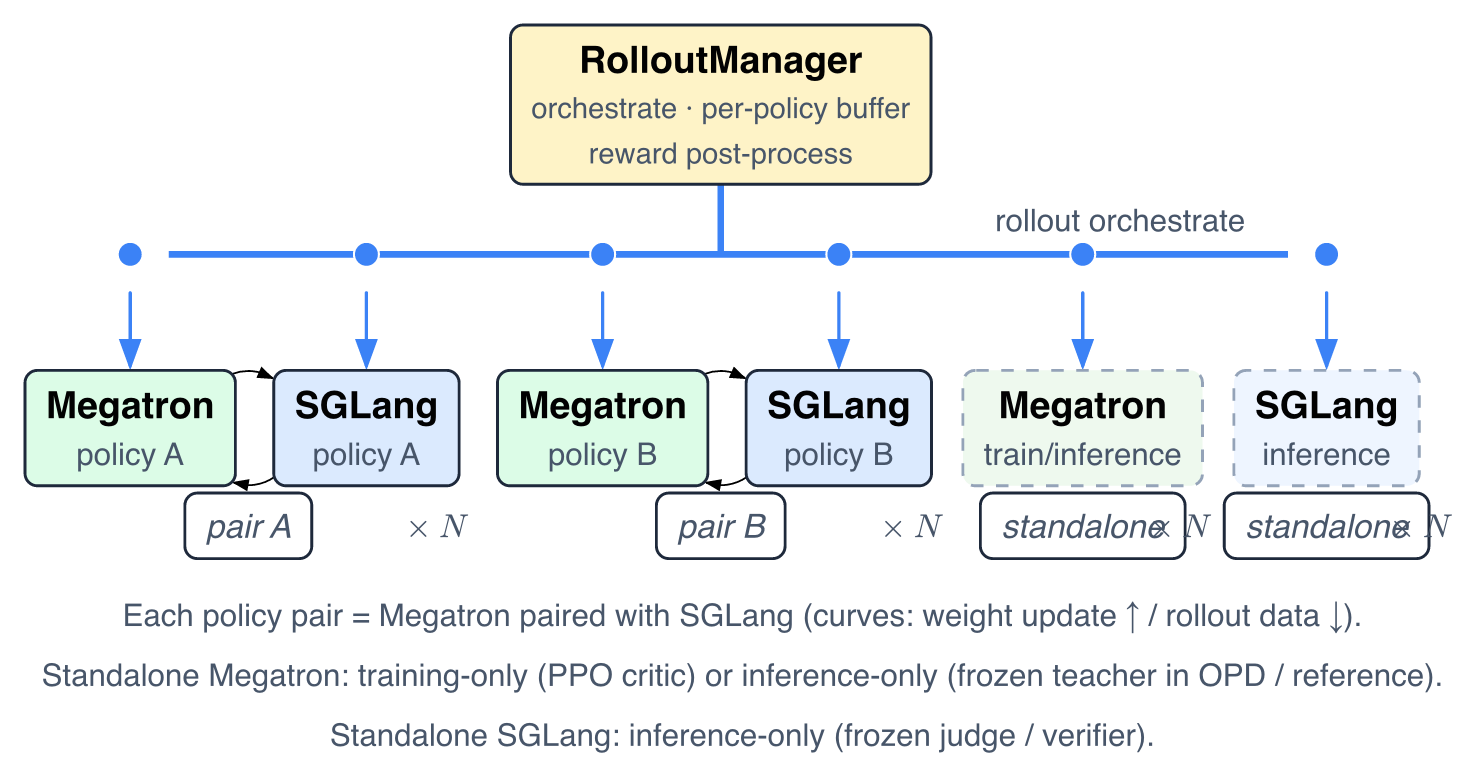
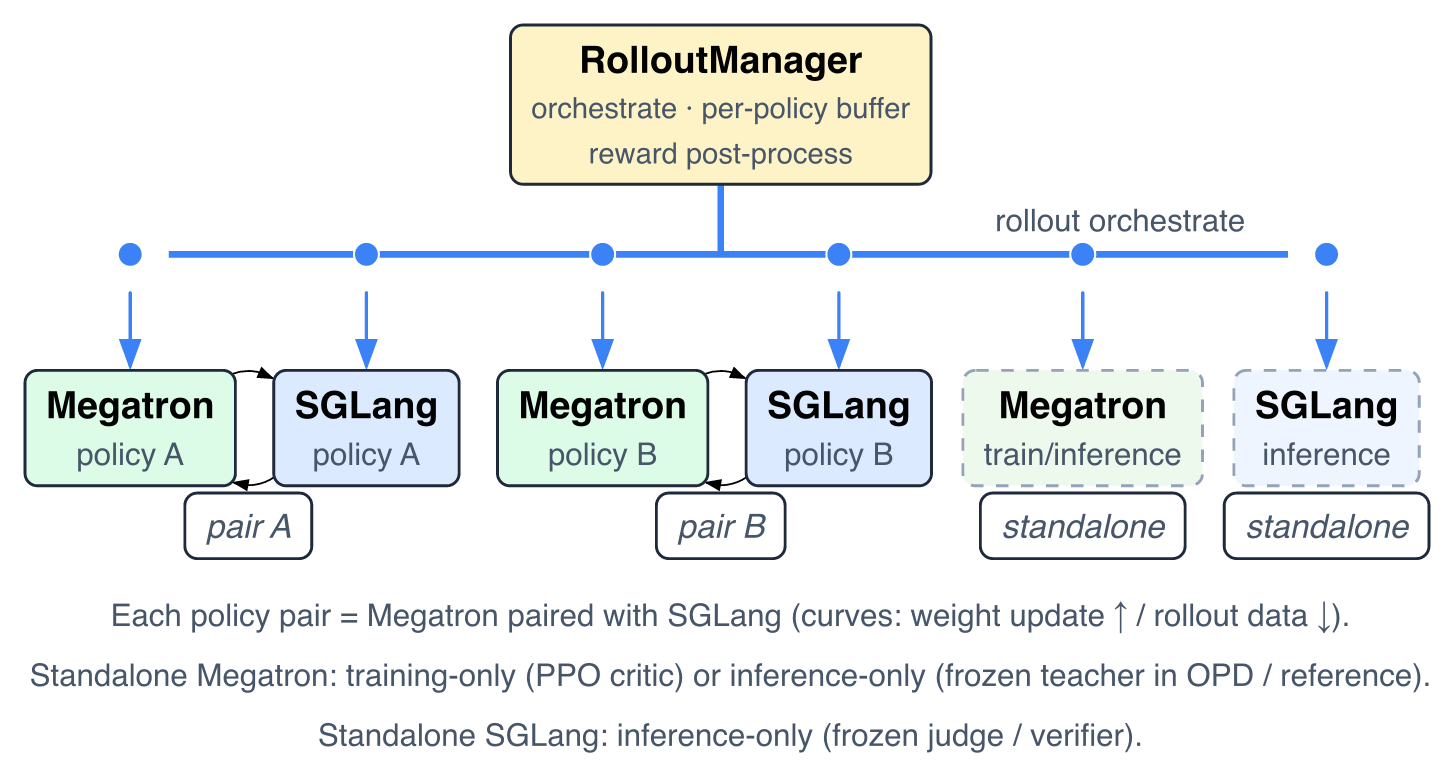
docs(readme): finalize slime-n title typography (centered HTML, no LaTeX)
Wrap the math title in <h1 align="center"> so GitHub renders it centered,
and switch the superscript / inline references from N to n for consistency
with the project name. Also refresh the architecture figure.

diff --git a/README.md b/README.md
@@ -1,18 +1,22 @@
-# $$\huge\color{#1E293B}{\textsf{\textbf{slime}}}^{\color{#3B82F6}{\textsf{\textbf{N}}}}$$
+<div align="center">
+
+# $\huge\color{#1E293B}{\textsf{\textbf{slime}}}^{\color{#3B82F6}{\textsf{\textbf{n}}}}$
+
+</div>
 
 ## A Multi-Policy, Multi-Agent RL Training Framework
 
-$\text{slime}^{N}$ extends [slime](https://github.com/THUDM/slime) into a flexible RL training framework for multi-policy and multi-agent workloads. It can compose arbitrary combinations of trainable policy pairs, standalone trainable Megatron actors, and standalone frozen models.
+slime<sup>n</sup> extends [slime](https://github.com/THUDM/slime) into a flexible RL training framework for multi-policy and multi-agent workloads. It can compose arbitrary combinations of trainable policy pairs, standalone trainable Megatron actors, and standalone frozen models.
 
 - **Trainable policy pairs**: a Megatron training actor paired with an SGLang engine.
-- **Standalone trainable Megatron actors**: roles such as a PPO critic.
-- **Standalone frozen models**: Megatron teachers for OPD, or SGLang judges and verifiers.
+- **Standalone Megatron**: teacher model in OPD while using Megatron for teacher.
+- **Standalone SGLang**: SGLang judges and reward models.
 
 ![multi-policy architecture](./imgs/arch_2.png)
 
 ## Multi-policy
 
-- **`train_multi_policy.py`** — driver for N≥1 trainable policies. Replaces `train.py` for multi-policy runs.
+- **`train_multi_policy.py`** — driver for n≥1 trainable policies. Replaces `train.py` for multi-policy runs.
 - **YAML-driven configs** — `--config <path>.yaml`. Per-policy fields (parallelism, batching, optimizer, loss, paths, Megatron numerical / dropout, `log_probs_chunk_size`) live in the YAML; cluster sizing is derived from policies. See [`slime/utils/policy_config.py`](slime/utils/policy_config.py).
 - **Per-policy buffers (split mode)** — each policy trains on its own samples, tagged via `Sample.policy_name`.
 - **Per-policy weight sync** — serialized push from each Megatron actor to its paired sglang engine.
@@ -51,23 +55,15 @@ Code: [`examples/multi_policy_solver_summarizer`](examples/multi_policy_solver_s
 
 Trainable **student** generates rollouts; frozen **teacher** provides per-token logprobs that feed a KL term in the student's loss. Two backends for the teacher, both supported in the same schema:
 
-| variant | student | teacher | teacher slot |
-|---|---|---|---|
-| **Megatron-backend teacher** (recommended — kernel-consistent) | paired pipeline (`m✓ s✓ trainable`) | `m✓ s✗ trainable=false` | standalone Megatron actor |
-| **SGLang-backend teacher** (cheaper, kernel mismatch) | paired pipeline | `m✗ s✓ trainable=false` | standalone SGLang engine |
+| policy | megatron | sglang | trainable | role |
+|---|---|---|---|---|
+| `student` | ✓ | ✓ | ✓ | paired pipeline; generates rollouts |
+| `teacher` *(Megatron — recommended, kernel-consistent)* | ✓ | ✗ | ✗ | standalone actor; per-token logprobs |
+| `teacher` *(SGLang — cheaper, kernel mismatch)* | ✗ | ✓ | ✗ | standalone engine; per-token logprobs |
 
 Teacher is forward-only — `train()` returns `{"teacher_log_probs": ...}` as `external_data`, which is routed to the student through producer→consumer plumbing.
 
-See [`plan_opd.md`](../plan_opd.md) for the full design.
 
-### Other examples
-
-| Directory | Pattern |
-|---|---|
-| [`examples/multi_policy_two_agent`](examples/multi_policy_two_agent) | Solver + selector — two trainable paired policies. |
-| [`examples/multi_policy_multi_agent`](examples/multi_policy_multi_agent) | General multi-agent setup with N trainable policies. |
-
-Each example contains: `config.yaml`, `agent_system.py`, `prompts.py`, `rollout_with_multi_agents.py`, `run-*.sh`.
 
 ## Run
 